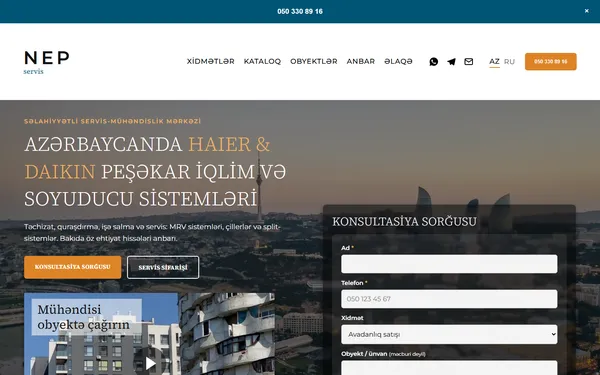
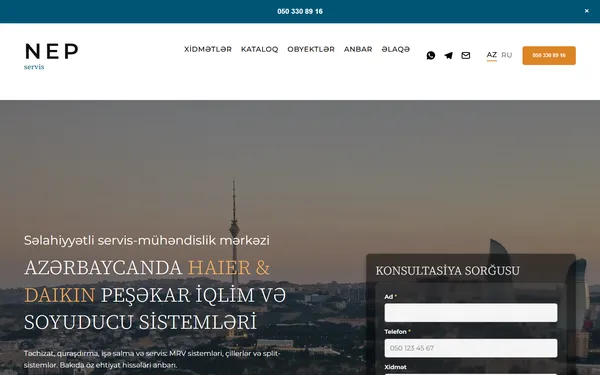
Витрина: обновлён 11 (пропорции по замерам), новая миниатюра

diff --git a/11-aircor/assets/style.css b/11-aircor/assets/style.css
@@ -139,3 +139,40 @@ a{color:inherit}
 .l3d-shadow{position:absolute;left:50%;bottom:62px;width:560px;height:60px;margin-left:-280px;background:radial-gradient(ellipse at center,rgba(0,0,0,.35),rgba(0,0,0,0) 70%);opacity:0}
 .l3d-veil{position:absolute;inset:0;background:#f1f2f3;opacity:0;pointer-events:none}
 @media (max-width:900px){.l3d{height:300px}.l3d-fin{font-size:78px}.l3d-fin small{font-size:28px}.l3d-shadow{width:300px;margin-left:-150px;bottom:30px;height:34px}}
+
+/* пропорции по замерам образца (1440/1920), только широкий экран */
+@media (min-width:901px){
+:root{--C:min(1400px,92vw);--N:calc(var(--C)*.75);--d:clamp(-300px,calc(100vw - 1440px),480px)}
+.hd>.btn{padding:15px 25px}
+.hd{min-height:184px;align-items:flex-start;padding:28px 4vw 0}.hd .nav{margin-top:18px}.hd .soc{margin-top:37px}.hd .lang{margin-top:33px}.hd>.btn{margin-top:27px}
+.logo{width:222px;height:98px}.logo svg{width:100px;height:84px}.logo b{font-size:52px}
+.hero{display:block;height:calc(1398px + var(--d)*.277);min-height:0}
+.hero .in{display:block;width:var(--C);margin:0 auto;padding:calc(369px + var(--d)*.129) 0 0;position:relative}
+.hero .in>div:first-child{width:49.6%;position:relative}
+.hero .eb{position:absolute;bottom:100%;left:0;margin:0 0 14px;font:400 30px/1.2 'Montserrat',sans-serif;letter-spacing:0;text-transform:none;color:#fff}
+.hero h1{margin:0 0 28px}.hero p{margin:0;max-width:none}
+.hero .btns{margin-top:25px;min-height:calc(210px + var(--d)*.025);align-content:flex-start}
+.hero .vcard{width:91.5%;margin-top:0}
+.hero .vid{position:absolute;right:0;top:calc(369px + var(--d)*.129);width:38%}
+.rev{padding:50px 0 0}
+.rev .wrap,.rev .tiles{max-width:var(--N);width:var(--N);margin-left:auto;margin-right:auto;padding-left:0;padding-right:0}
+.rev .rwrap{height:calc(377px - var(--d)*.317);overflow:hidden}
+.tiles{gap:34px;padding:0 0 calc(85px + var(--d)*.033)}
+.dark{padding:65px 0 0;min-height:calc(1036px + var(--d)*.106);display:flex;flex-direction:column}
+.dark .wrap{flex:1;display:flex;flex-direction:column;max-width:var(--N);padding:0;width:100%}
+.dark .map{flex:1 1 334px}
+.l3dwrap{padding:15px 0 14px;background:var(--bg)}
+.l3dwrap .l3d{max-width:var(--N);margin:0 auto;height:595px}
+.band{padding:calc(47px + var(--d)*.033) 20px calc(32px + var(--d)*.033)}.badges{gap:calc(106px + var(--d)*.027);margin-bottom:17px}.badge{width:120px;height:120px}
+.rows>*{min-width:0}
+.rows{display:grid;grid-template-columns:1fr 40.2%;gap:41px;width:var(--C);max-width:none;min-height:calc(413px + var(--d)*.065);padding:0;margin:0 auto;align-items:center}
+.rows .acu{aspect-ratio:532/298;height:auto}.row svg{width:calc(79px + var(--d)*.0125);height:calc(77px + var(--d)*.0125)}.row{min-height:77px;margin-bottom:26px}
+.alt{max-width:var(--N);padding:0;margin:34px auto 0}
+.alt{align-items:start}.alt .card{padding:calc(var(--C)*.0375);margin-top:9px;margin-bottom:-9px;min-height:calc(var(--C)*.3253)}.alt .im{margin-left:40%}.alt.r .im{margin-left:0;margin-right:40%}
+.alt .card h2{font:300 25.76px/37.56px 'Source Serif 4',serif}
+.alt .im .ph{height:auto;aspect-ratio:596/447}.alt.r .im .ph{aspect-ratio:596/335}
+.alt.r .card{margin-top:0;margin-bottom:0;min-height:calc(var(--C)*.3042)}
+.posts{padding:54px 0 40px;min-height:calc(640px + var(--d)*.075)}.pg h3{font:400 30px/36px 'Source Serif 4',serif}
+.posts h2{font:300 35.84px/50.96px 'Source Serif 4',serif}
+.pg{max-width:none;width:var(--C);padding:0}
+}

diff --git a/11-aircor/ru/index.html b/11-aircor/ru/index.html
@@ -1,5 +1,6 @@
 <!doctype html>
-<html lang="ru"><head><meta name="robots" content="noindex, nofollow"><meta charset="utf-8"><meta name="viewport" content="width=device-width,initial-scale=1">
+<html lang="ru"><head><meta charset="utf-8">
+<meta name="robots" content="noindex, nofollow"><meta name="viewport" content="width=device-width,initial-scale=1">
 <title>NEP Servis — Haier &amp; Daikin в Азербайджане | Баку</title><meta name="description" content="NEP Servis: поставка, монтаж, пусконаладка и сервис оборудования Haier и Daikin в Баку. MRV, VRV, чиллеры и сплит-системы. Собственный склад запчастей.">
 <link rel="preconnect" href="https://fonts.googleapis.com"><link rel="preconnect" href="https://fonts.gstatic.com" crossorigin>
 <link href="https://fonts.googleapis.com/css2?family=Montserrat:wght@300;400;500;600;700&family=Source+Serif+4:wght@300;400;700&display=swap" rel="stylesheet">

diff --git a/11-aircor/index.html b/11-aircor/index.html
@@ -1,5 +1,6 @@
 <!doctype html>
-<html lang="az"><head><meta name="robots" content="noindex, nofollow"><meta charset="utf-8"><meta name="viewport" content="width=device-width,initial-scale=1">
+<html lang="az"><head><meta charset="utf-8">
+<meta name="robots" content="noindex, nofollow"><meta name="viewport" content="width=device-width,initial-scale=1">
 <title>NEP Servis — Haier &amp; Daikin Azərbaycanda | Bakı</title><meta name="description" content="NEP Servis: Haier və Daikin avadanlığının təchizatı, quraşdırılması, işə salınması və servisi Bakıda. MRV, VRV, çillerlər və split-sistemlər. Öz ehtiyat hissələri anbarı.">
 <link rel="preconnect" href="https://fonts.googleapis.com"><link rel="preconnect" href="https://fonts.gstatic.com" crossorigin>
 <link href="https://fonts.googleapis.com/css2?family=Montserrat:wght@300;400;500;600;700&family=Source+Serif+4:wght@300;400;700&display=swap" rel="stylesheet">
